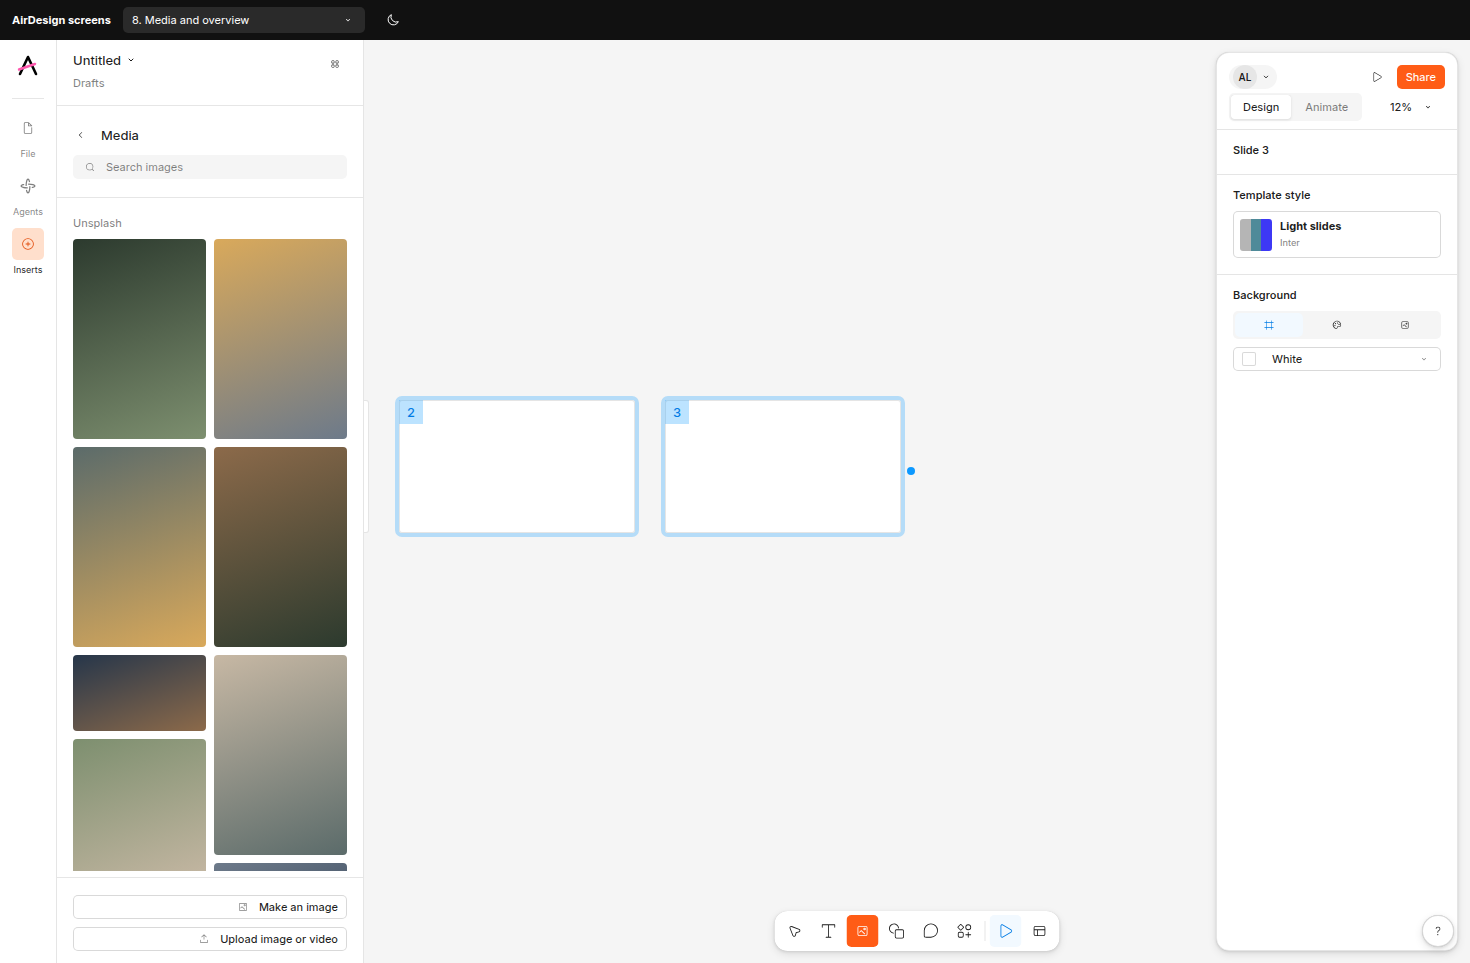
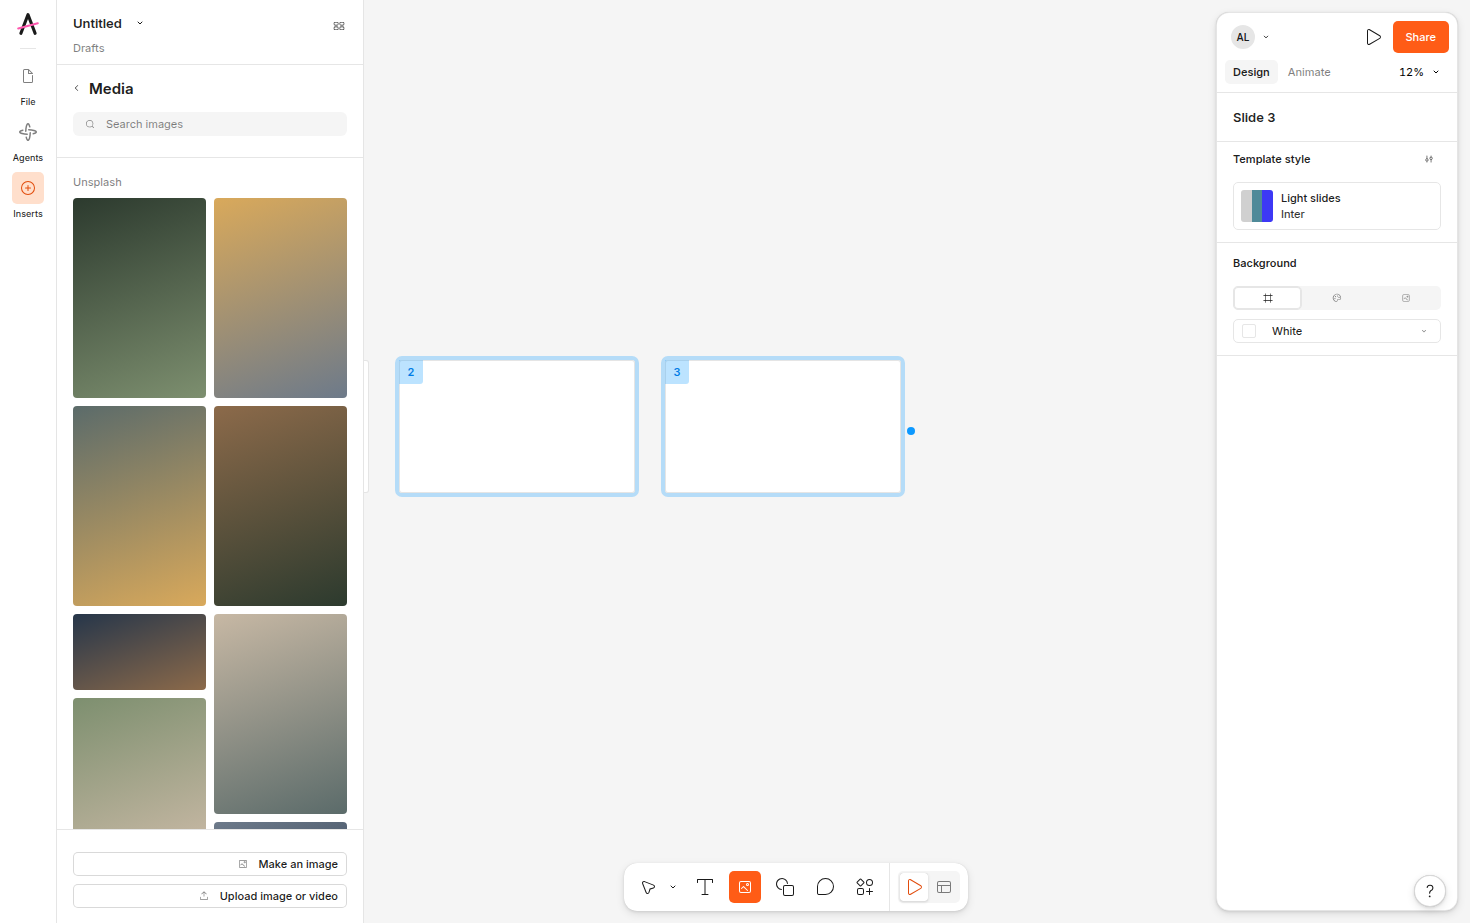
Match screens closer to the originals (round 5: ssim 97.1 mean, ink-F1 87 mean); refresh screenshots and add fidelity table

diff --git a/examples/src/app.css b/examples/src/app.css
@@ -139,8 +139,8 @@ h1, h2 { margin: 0; }
 .media__grid { display: grid; grid-template-columns: 1fr 1fr; gap: 8px; }
 .media__col { display: grid; gap: 8px; align-content: start; }
 .media__item { border: 0; border-radius: 4px; padding: 0; cursor: pointer; }
-.media__actions { display: grid; gap: 4px; padding: 8px 12px 12px; }
-.media__actions .ad-btn { height: 24px; font-size: 13px; font-weight: 500; }
+.media__actions { display: grid; gap: 8px; padding: 22px 16px 15px; box-sizing: border-box; }
+.media__actions .ad-btn { height: 24px; font-size: 11px; font-weight: 500; width: 274px; }
 
 /* ---------- Canvas ---------- */
 .ed__main { grid-template-columns: minmax(0, 1fr); }
@@ -154,7 +154,7 @@ h1, h2 { margin: 0; }
 .notes__box { width: 867px; height: 115px; display: flex; justify-content: space-between; align-items: flex-start; padding: 16px 20px; background: rgb(230, 230, 230); border-radius: 12px; color: var(--ad-ink-subtle); font-size: 13px; box-sizing: border-box; }
 .ed[data-wide] .slide-view { padding: 165px 34px 0 0; }
 .ed[data-wide] .slide-view__stage { justify-content: flex-end; }
-.ed[data-wide] .bigslide { width: 728px; height: 409px; padding: 177px 50px 0; }
+.ed[data-wide] .bigslide { width: 728px; height: 409px; padding: 172px 50px 0; }
 .ed[data-wide] .bigslide h1 { font-size: 39px; margin: 0 0 10px; }
 .ed[data-wide] .bigslide p { font-size: 13.5px; }
 .ed[data-wide] .notes { width: 728px; margin-top: 164px; align-self: flex-end; }
@@ -164,17 +164,17 @@ h1, h2 { margin: 0; }
 .overview { position: relative; padding: 360px 0 0 76px; display: flex; gap: 30px; align-items: flex-start; }
 .ov { position: relative; width: 236px; height: 133px; }
 .ov .thumb { position: absolute; inset: 0; height: 100%; }
-.ov__n { position: absolute; left: 4px; top: -22px; font-size: var(--ad-text-md); z-index: 2; }
+.ov__n { position: absolute; left: 5px; top: 6px; font-size: 11px; font-weight: 550; color: rgba(0, 0, 0, 0.6); z-index: 2; line-height: 1; }
 .ov[data-selected] { outline: 4px solid rgba(13,153,255,.28); border-radius: 3px; }
-.ov[data-selected] .ov__n { top: 0; left: 0; width: 24px; height: 24px; display: grid; place-items: center; background: rgba(13,153,255,.28); color: var(--ad-selection-strong); }
+.ov[data-selected] .ov__n { top: 0; left: 0; width: 24px; height: 24px; display: grid; place-items: center; background: rgba(13,153,255,.28); color: var(--ad-selection-strong); border-bottom-right-radius: 3px; }
 .ov:first-child::after, .ov[data-selected]:last-child::after { content: ""; position: absolute; width: 8px; height: 8px; border-radius: 50%; background: var(--ad-selection); }
 .ov:first-child::after { left: 50%; top: calc(100% + 33px); }
 .ov[data-selected]:last-child::after { left: calc(100% + 6px); top: 50%; }
 .ed[data-wide] .overview { margin-left: -307px; }
 .float { position: absolute; z-index: 2; display: flex; align-items: center; gap: 8px; height: 48px; padding: 8px 12px; background: #fff; border-radius: 13px; box-shadow: rgba(0, 0, 0, 0.18) 0px 0px 0.5px 0px, rgba(0, 0, 0, 0.1) 0px 3px 8px 0px, rgba(0, 0, 0, 0.1) 0px 1px 3px 0px; box-sizing: border-box; }
-.float--head { top: 12px; left: 12px; height: 48px; }
+.float--head { top: 12px; left: 12px; height: 48px; padding: 8px 12px 8px 16px; gap: 8px; }
 .float--head .lp__title { font-size: 13px; font-weight: 550; }
-.float--head .ad-btn { font-size: 13px; font-weight: 500; height: 32px; }
+.float--head .ad-btn { font-size: 13px; font-weight: 500; height: 32px; color: rgba(0, 0, 0, 0.898); padding: 0 8px; }
 .float--top { top: 12px; right: 12px; height: 48px; padding: 8px 12px; }
 .float--top .insp__share, .float--top .ad-btn--primary { height: 32px; min-width: 54px; padding: 0 12px; font-size: 11px; font-weight: 500; background: rgb(255, 92, 22); border-radius: 5px; color: #fff; }
 .zoomtag { background: transparent; color: #1a1a1a; font-weight: 500; font-size: 11px; }
@@ -197,7 +197,7 @@ h1, h2 { margin: 0; }
 .tray__shape:hover { background: var(--ad-surface-subtle); }
 
 /* ---------- Inspector ---------- */
-.insp__head { display: flex; flex-direction: column; padding: 8px 0; border-bottom: 1px solid rgb(230, 230, 230); box-sizing: border-box; gap: 8px; }
+.insp__head { display: flex; flex-direction: column; padding: 8px 0; border-bottom: 1px solid rgb(230, 230, 230); box-sizing: border-box; gap: 7px; }
 .insp__row { display: flex; align-items: center; box-sizing: border-box; }
 .insp__head .insp__row:first-child { height: 32px; padding: 0 8px 0 12px; gap: 8px; }
 .insp__head .insp__row:last-child { height: 24px; padding: 0 8px; justify-content: space-between; }
@@ -206,12 +206,13 @@ h1, h2 { margin: 0; }
 .insp__share { height: 32px; min-width: 54px; padding: 0 12px; font-size: 11px; font-weight: 500; background: rgb(255, 92, 22); border-radius: 5px; color: #fff; }
 .insp__head .ad-tabs { background: transparent; padding: 0; }
 .insp__head .ad-tab { height: 24px; padding: 0 8px; font-size: 11px; font-weight: 450; border-radius: 5px; color: rgba(0,0,0,0.5); background: transparent; box-shadow: none; }
-.insp__head .ad-tab[aria-selected="true"] { background: #f0f0f0; color: rgba(0,0,0,0.898); box-shadow: none; font-weight: 550; }
-.insp__head .zoomtag { height: 24px; font-size: 11px; padding: 0 6px; border-radius: 5px; font-variant-numeric: tabular-nums; color: #000; font-weight: 400; }
+.insp__head .ad-tab[aria-selected="true"] { background: rgb(245, 245, 245); color: rgba(0,0,0,0.898); box-shadow: none; font-weight: 550; }
+.insp__head .zoomtag { height: 24px; font-size: 11px; padding: 0 4px; border-radius: 5px; font-variant-numeric: tabular-nums; color: #000; font-weight: 400; gap: 4px; }
 .insp__body { display: block; }
 .insp__sec { box-sizing: content-box; border-bottom: 1px solid rgb(230, 230, 230); border-top: 0; }
 .insp__sec--slide { height: 49px; display: flex; align-items: center; justify-content: space-between; padding: 0 8px 0 16px; box-sizing: border-box; }
 .insp__sec--slide h2 { margin: 0; font-size: 13px; font-weight: 550; color: rgba(0, 0, 0, 0.898); line-height: 22px; }
+.insp__sec--template .ad-btn--icon { color: rgba(0, 0, 0, 0.898); }
 .insp__sec--template { height: 101px; display: flex; flex-direction: column; justify-content: space-between; padding: 5px 16px 12px; box-sizing: border-box; }
 .insp__sec--bg { height: 113px; display: flex; flex-direction: column; justify-content: space-between; padding: 8px 16px 12px; box-sizing: border-box; }
 .insp__sec--colors { padding: 7px 16px 16px; }
@@ -269,22 +270,27 @@ dialog.share::backdrop { background: rgba(0,0,0,.5); }
 .share__head { display: flex; align-items: center; justify-content: space-between; height: 40px; padding: 0 8px 0 16px; border-bottom: 1px solid rgb(230, 230, 230); box-sizing: border-box; }
 .share__head strong { font-size: 11px; font-weight: 550; color: rgba(0, 0, 0, 0.898); }
 .share__head .orange { color: rgb(255, 92, 22); font-size: 11px; font-weight: 450; padding: 0 4px; height: 32px; }
-.share__body { padding: 14px 16px 12px; display: grid; gap: 10px; box-sizing: border-box; }
-.share__row { display: grid; grid-template-columns: 1fr auto; gap: 8px; height: 34px; align-items: center; }
+.share__body { padding: 14px 16px 12px; display: flex; flex-direction: column; box-sizing: border-box; }
+.share__row { display: grid; grid-template-columns: 1fr auto; gap: 8px; height: 34px; align-items: center; margin-bottom: 19px; }
 .share__row .ad-field { height: 34px; background: rgb(245, 245, 245); border-radius: 5px; }
-.share__row .ad-btn { height: 34px; border-radius: 5px; font-size: 11px; font-weight: 450; }
-.share__sub { color: rgba(0, 0, 0, 0.5); padding: 2px 0 0; font-size: 11px; font-weight: 550; line-height: 16px; }
+.share__row .ad-input { font-size: 11px; color: rgba(0, 0, 0, 0.898); }
+.share__row .ad-input::placeholder { color: rgba(0, 0, 0, 0.898); opacity: 1; }
+.share__row .ad-btn { height: 32px; border-radius: 5px; font-size: 11px; font-weight: 550; }
+.share__row .ad-btn:disabled { background: rgb(217, 217, 217) !important; color: #fff !important; width: 53.4px; }
+.share__sub { color: rgba(0, 0, 0, 0.5); padding: 0; margin-bottom: 7px; font-size: 11px; font-weight: 550; line-height: 16px; height: 16px; }
 .share__access { display: flex; align-items: center; gap: 8px; height: 32px; padding: 0; border: 0; background: none; font: inherit; color: inherit; text-align: start; font-size: 11px; }
+.share__access:first-of-type { margin-bottom: 5px; }
 .share__access > span:not(.ad-avatar) { flex: 1; }
-.share__access em { font-style: normal; display: inline-flex; align-items: center; gap: 4px; color: rgba(0, 0, 0, 0.5); }
+.share__access em { font-style: normal; display: inline-flex; align-items: center; gap: 4px; color: rgba(0, 0, 0, 0.898); }
 .share__access small { color: rgba(0, 0, 0, 0.5); }
+.share__access:last-child em { color: rgba(0, 0, 0, 0.5); }
 .share__card.share__menu { height: 160px; padding: 8px 16px; box-sizing: border-box; display: flex; flex-direction: column; justify-content: space-between; }
-.share__menu button { display: flex; align-items: center; gap: 8px; height: 36px; padding: 0 8px; border: 0; background: none; font: inherit; color: rgba(0, 0, 0, 0.898); border-radius: 5px; cursor: pointer; font-size: 11px; width: 100%; box-sizing: border-box; }
+.share__menu button { display: flex; align-items: center; gap: 11px; height: 36px; padding: 0; border: 0; background: none; font: inherit; color: rgba(0, 0, 0, 0.898); border-radius: 5px; cursor: pointer; font-size: 11px; width: 100%; box-sizing: border-box; }
 .share__menu button span { flex: 1; text-align: start; }
 .share__menu button:hover { background: var(--ad-surface-subtle); }
-.share__cta { background: #ffe9df !important; border-radius: 6px; }
-.share__cta span { color: #e8581c !important; }
-.share__cta b { color: #e8581c !important; font-weight: 500; }
+.share__cta { background: rgb(255, 223, 204) !important; border-radius: 5px; height: 34px; padding: 0 8px 0 0 !important; }
+.share__cta span { color: rgba(0, 0, 0, 0.898) !important; font-size: 11px; }
+.share__cta b { color: rgb(226, 76, 12) !important; font-weight: 450; font-size: 11px; }
 
 .ed:not(:has(.ed__insp)) .ed__main, .ed:has(.ed__insp[data-floating]) .ed__main { grid-column: 3 / 5; }
 .ed:not(:has(.ed__left)):has(.ed__insp[data-floating]) .ed__main { grid-column: 2 / 5; }

diff --git a/examples/README.md b/examples/README.md
@@ -23,6 +23,26 @@ Content is generic (the account is "Ada Lovelace", the photos are tonal placehol
 
 Linking note: when an app links the kit from a folder that has its own `react`, set `resolve.dedupe: ["react", "react-dom"]` (see `vite.config.ts`) or you get "Cannot read properties of null (reading 'useState')". A normal install from npm does not need this.
 
+## Fidelity to the originals
+
+Measured against the 11 original screenshots (1470x923, photo areas and the account name masked) after 5 rounds of compare-and-fix:
+
+| Screen | ssim | ink-F1 |
+|---|---|---|
+| home | 96.9 | 84.4 |
+| start | 97.6 | 87.3 |
+| slide | 96.2 | 86.3 |
+| overview | 98.4 | 82.0 |
+| agents | 95.6 | 88.0 |
+| inserts | 96.0 | 88.9 |
+| inserts-overview | 98.1 | 86.6 |
+| media-overview | 97.7 | 93.8 |
+| media | 97.2 | 87.8 |
+| shapes | 97.8 | 87.7 |
+| share | 97.2 | 80.8 |
+
+ssim is structural similarity (mean 97.1). ink-F1 is stricter: text, icons and edges must land within 2px of the original (mean 87). Open the app with `?bare` to get a 1470x923 view without the switcher bar. The remaining gap is mostly icon drawings that differ from the originals and font rasterisation.
+
 ![Home](screenshots/home.png)
 ![Getting started](screenshots/start.png)
 ![Slide editor](screenshots/slide.png)
